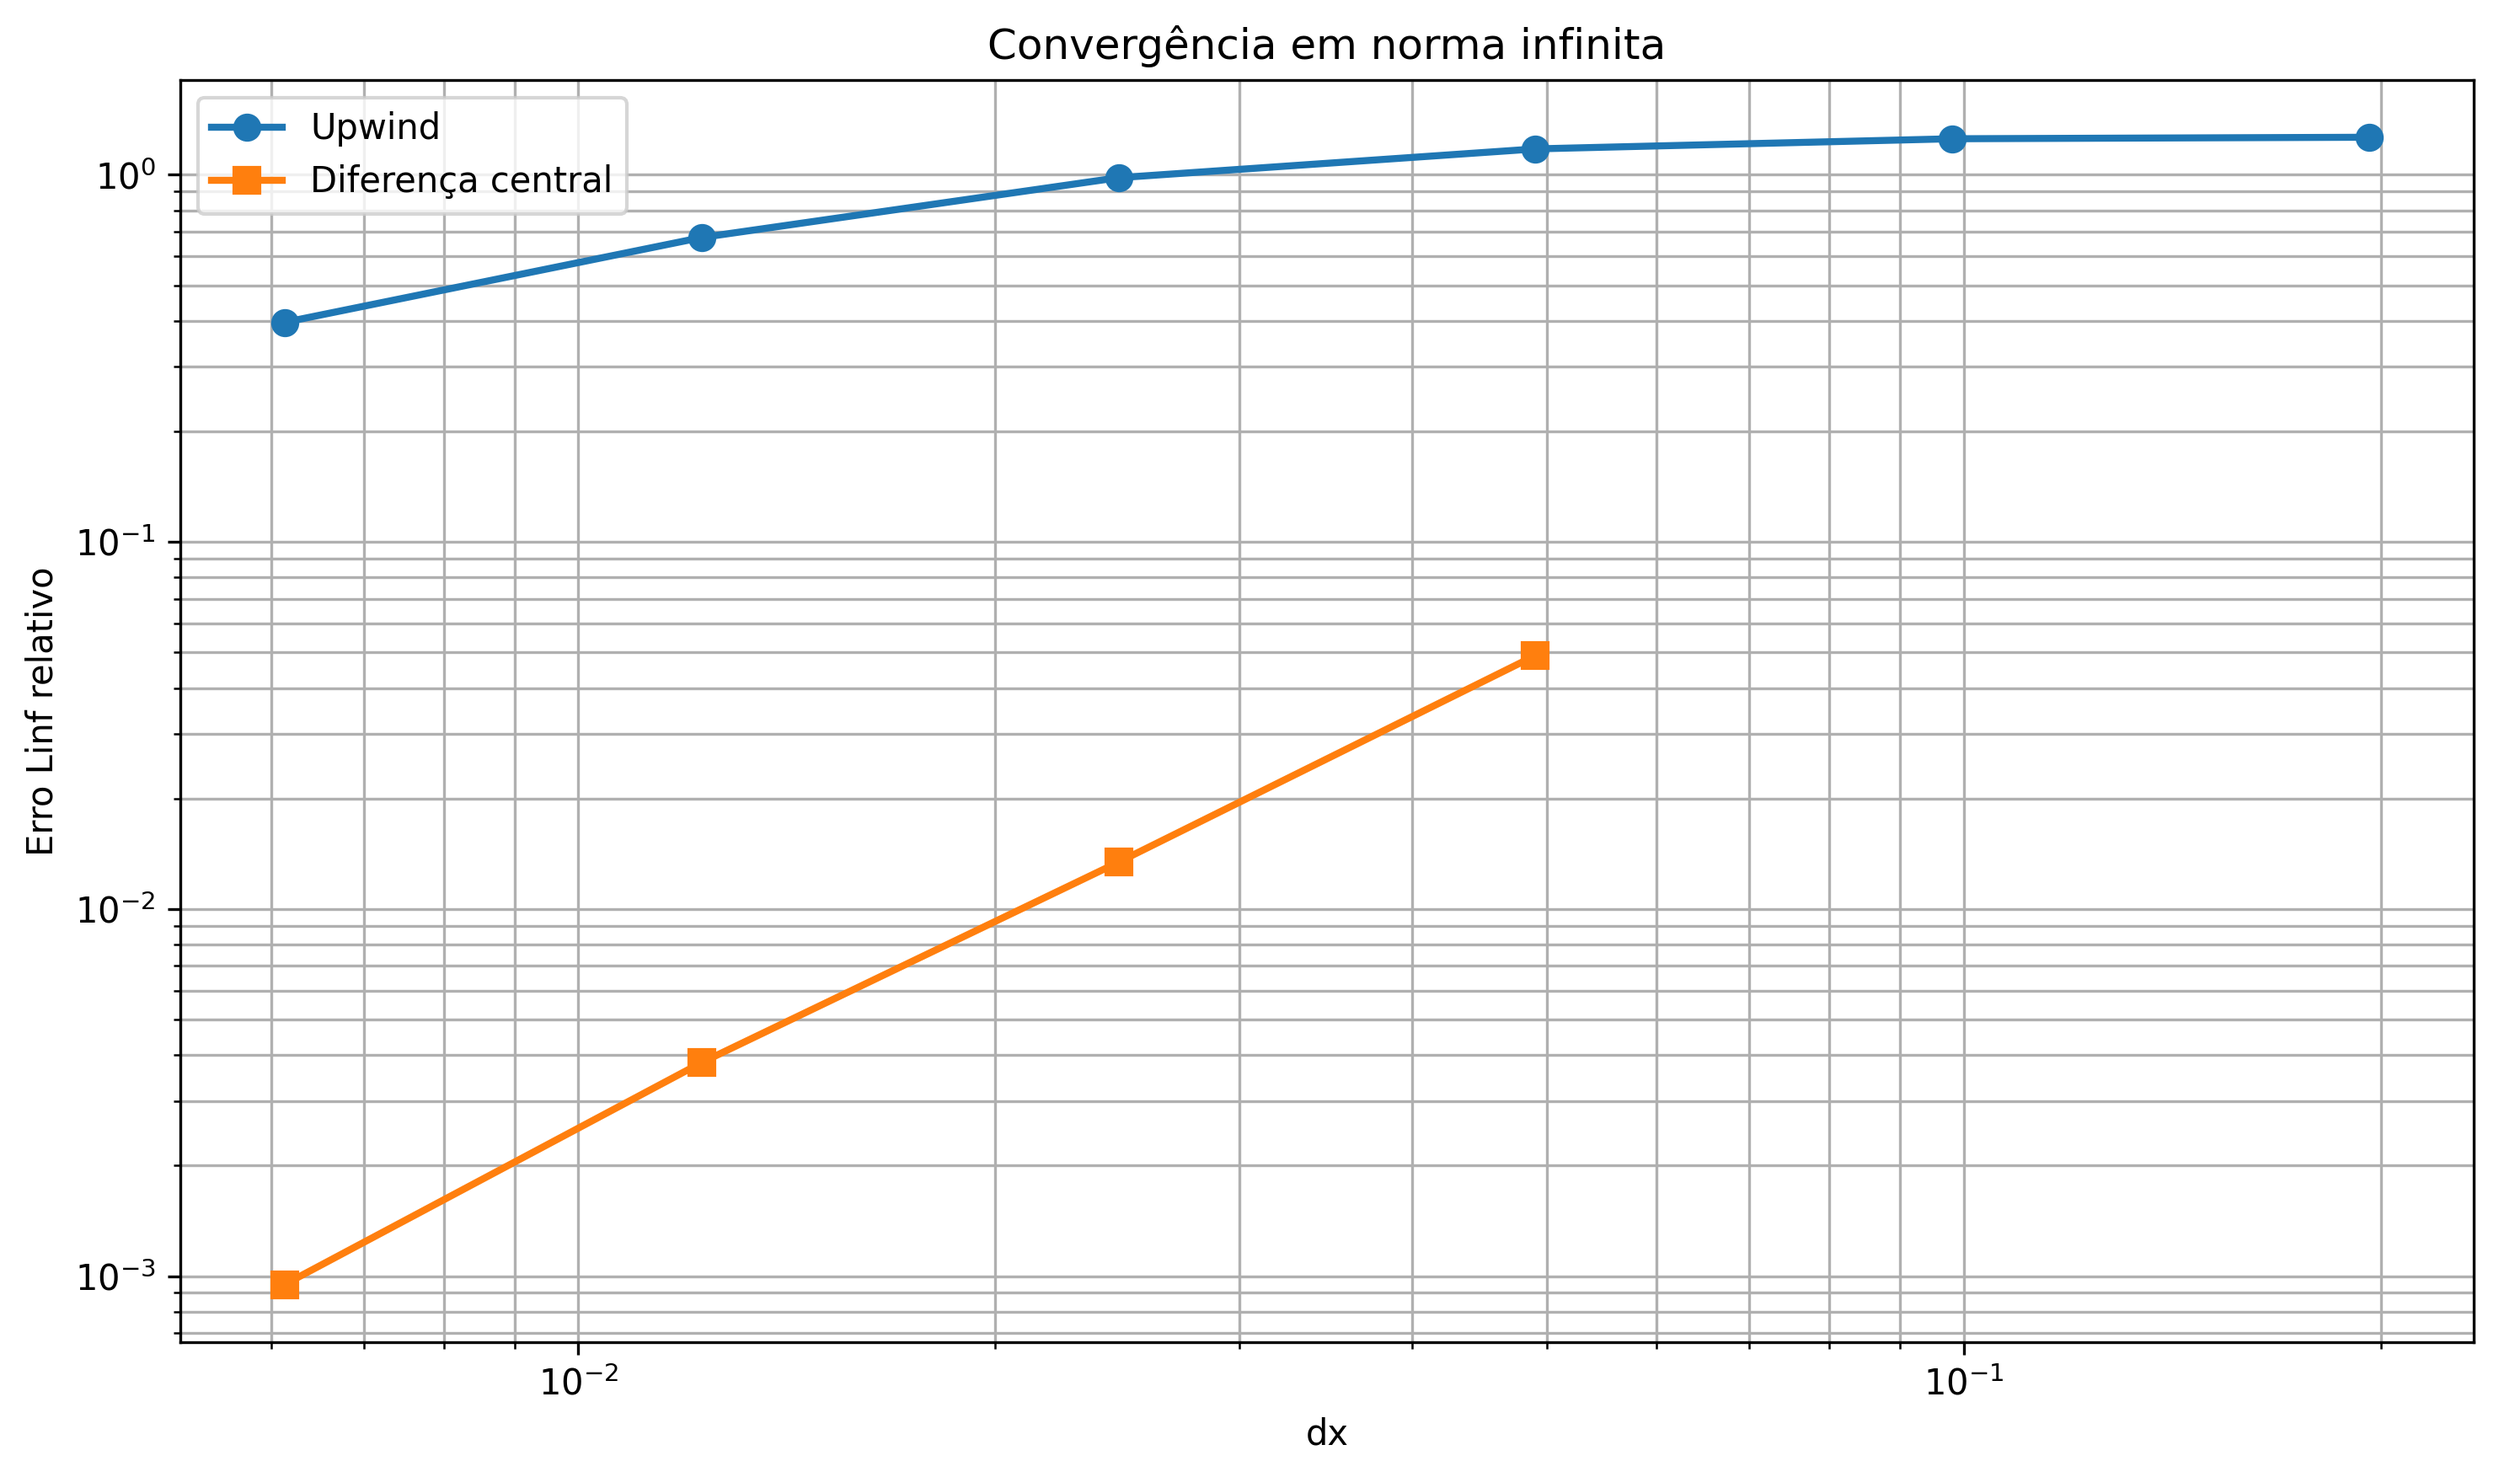
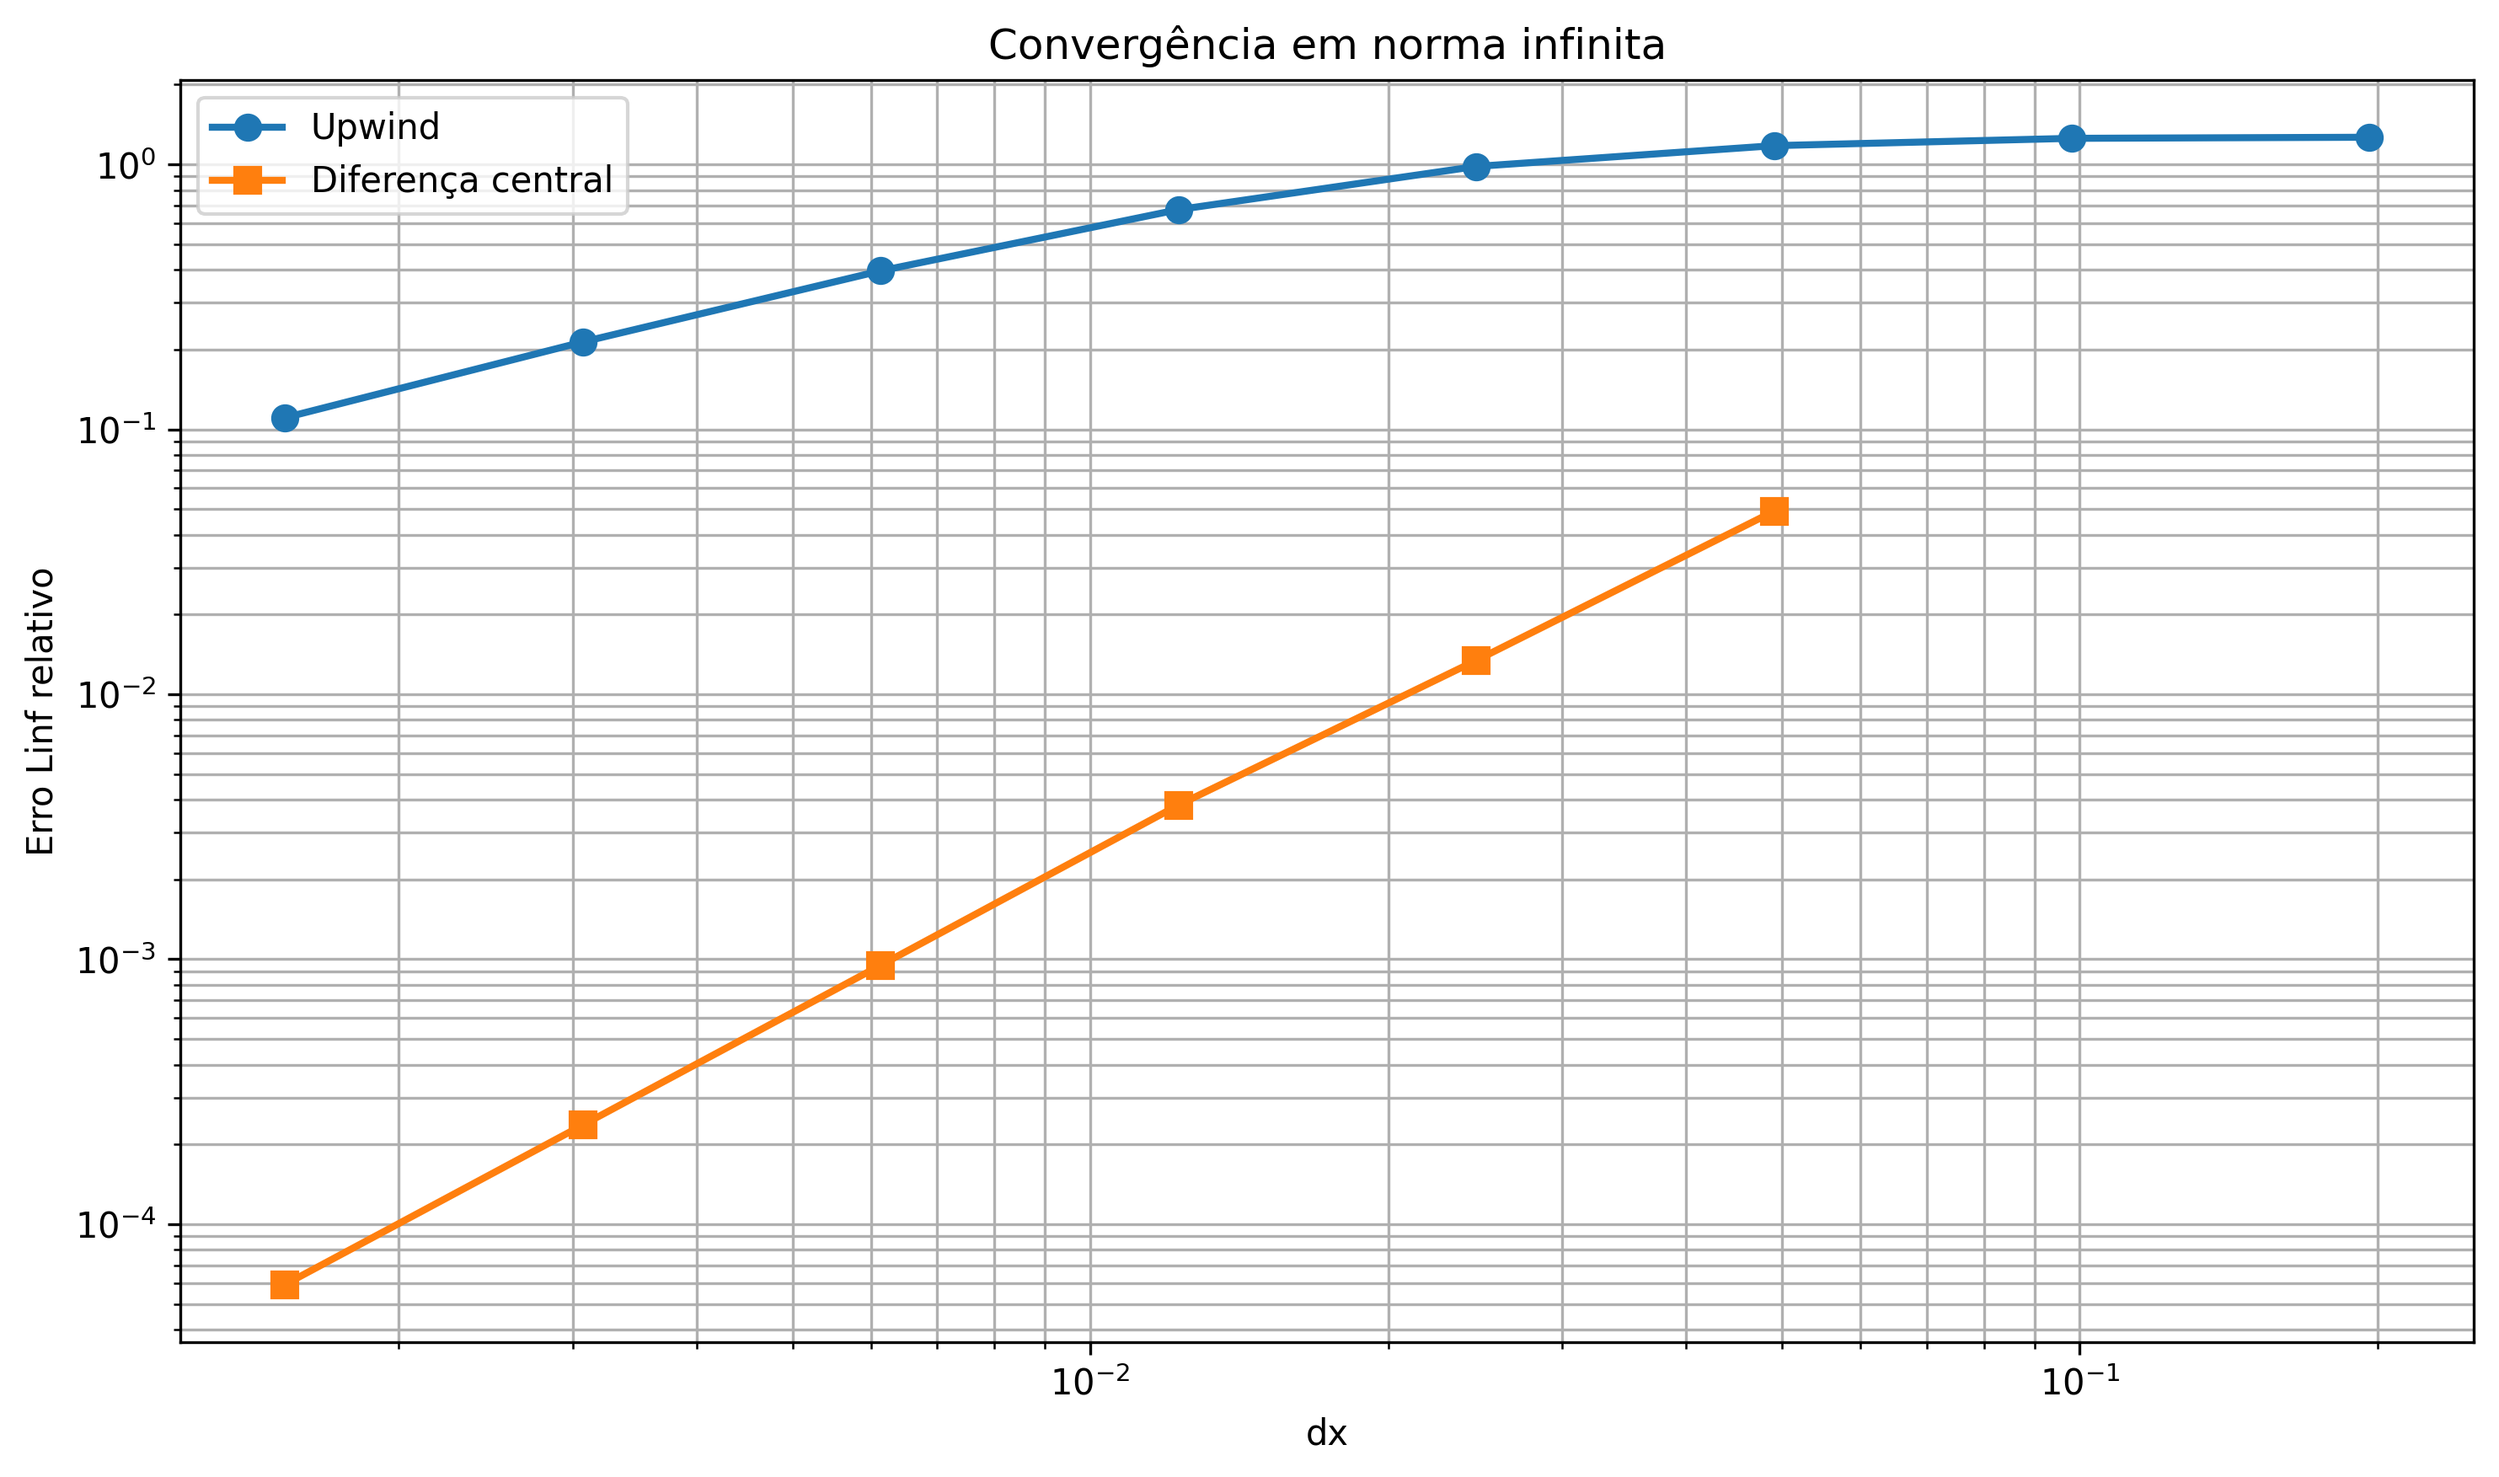
finalizado?

diff --git a/burguers/main.py b/burguers/main.py
@@ -37,10 +37,10 @@ NU = 0.07
 T_FINAL = 1.0
 
 # Refinamentos para o estudo de convergência GPU
-REFINAMENTOS = [32, 64, 128, 256, 512, 1024]
+REFINAMENTOS = [32, 64, 128, 256, 512, 1024, 2048, 4096]
 
 # Malha grosseira usada na comparação CPU x GPU
-NX_CPU_COMPARACAO = 4096
+NX_CPU_COMPARACAO = 1024
 
 # Truncamento da série da solução analítica
 N_TERMS = 80
